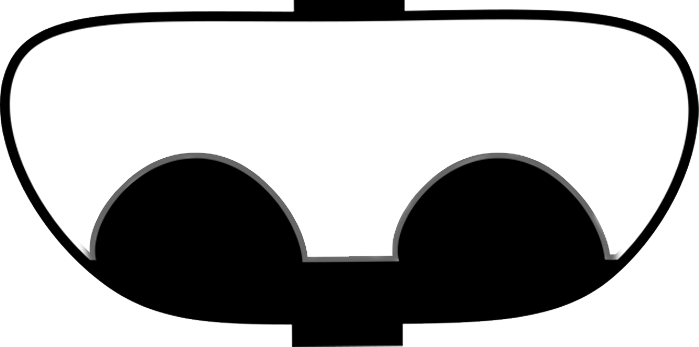
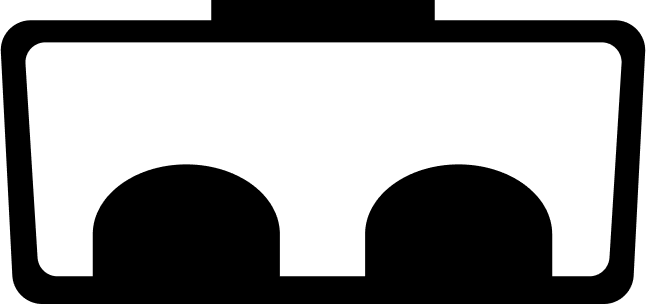
new assets

diff --git a/core/src/edu/cornell/gdiac/mangosnoops/GameplayController.java b/core/src/edu/cornell/gdiac/mangosnoops/GameplayController.java
@@ -234,6 +234,7 @@ public class GameplayController {
 	/** Texture of the rear view mirror */
 	private Texture rearviewBackgroundTexture;
 	private Texture rearviewSeatsTexture;
+	private Texture rearviewCoverTexture;
 	/** Texture of sun effect */
 	private Texture sun;
 	private Texture sun2;
@@ -446,6 +447,7 @@ public class GameplayController {
 		healthPointerTexture = createTexture(manager, HEALTH_POINTER_FILE);
 		rearviewBackgroundTexture = createTexture(manager, REARVIEW_BACKGROUND);
 		rearviewSeatsTexture = createTexture(manager, REARVIEW_SEATS);
+		rearviewCoverTexture = createTexture(manager, REARVIEW_COVER);
         visorOpen = createTexture(manager, VISOR_OPEN_FILE);
         visorClosed = createTexture(manager, VISOR_CLOSED_FILE);
         sun = createTexture(manager, SUN_FILE);
@@ -636,9 +638,9 @@ public class GameplayController {
 		healthGauge = new Image(0.34f, 0.05f, 0.175f, healthGaugeTexture);
 		healthGaugePointer = new Image(0.39f, 0.08f, 0.09f, healthPointerTexture);
 
-		rearviewBackground = new Image(0.65f, 0.7f, 0.3f, rearviewBackgroundTexture);
-		rearviewSeats = new Image(0.65f, 0.7f, 0.3f, rearviewSeatsTexture);
-		rearviewCover = new Image(0.65f, 0.7f, 0.3f, rearviewSeatsTexture);
+		rearviewBackground = new Image(0.612f, 0.7f, 0.257f, rearviewBackgroundTexture);
+		rearviewSeats = new Image(0.61f, 0.7f, 0.3f, rearviewSeatsTexture);
+		rearviewCover = new Image(0.61f, 0.7f, 0.3f, rearviewCoverTexture);
         rearviewEnemy = new RearviewEnemy(0.83f, 0.82f, 0.18f,0, rearviewGnomeTexture);
 
 		// TODO CHANGE THIS LOL
@@ -998,10 +1000,10 @@ public class GameplayController {
 		rearviewBackground.draw(canvas);
 		rearviewEnemy.draw(canvas);
 		rearviewSeats.draw(canvas);
-		rearviewCover.draw(canvas);
 		// Draw Ned and Nosh
 		yonda.getNosh().draw(canvas);
 		yonda.getNed().draw(canvas);
+		rearviewCover.draw(canvas);
 
 		//Draw inventory
 		inventory.draw(canvas);

diff --git a/core/src/edu/cornell/gdiac/mangosnoops/hudentity/Child.java b/core/src/edu/cornell/gdiac/mangosnoops/hudentity/Child.java
@@ -81,10 +81,10 @@ public class Child extends Image{
         super(0,0,0, null);
         if(type == ChildType.NED){
             NED_SPEECH_BUBBLE_COORDS = new Vector2(MathUtils.random(0.3f,0.65f),MathUtils.random(0.45f,0.75f));
-            position = new Vector2(0.76f, 0.83f);
+            position = new Vector2(0.715f, 0.8f);
         } else{
             NOSH_SPEECH_BUBBLE_COORDS = new Vector2(MathUtils.random(0.3f,0.65f),MathUtils.random(0.45f,0.75f));
-            position = new Vector2(0.91f, 0.83f);
+            position = new Vector2(0.9f, 0.78f);
         }
         Random rand = new Random();
         int animSpeedInt = rand.nextInt(5) + 20;
